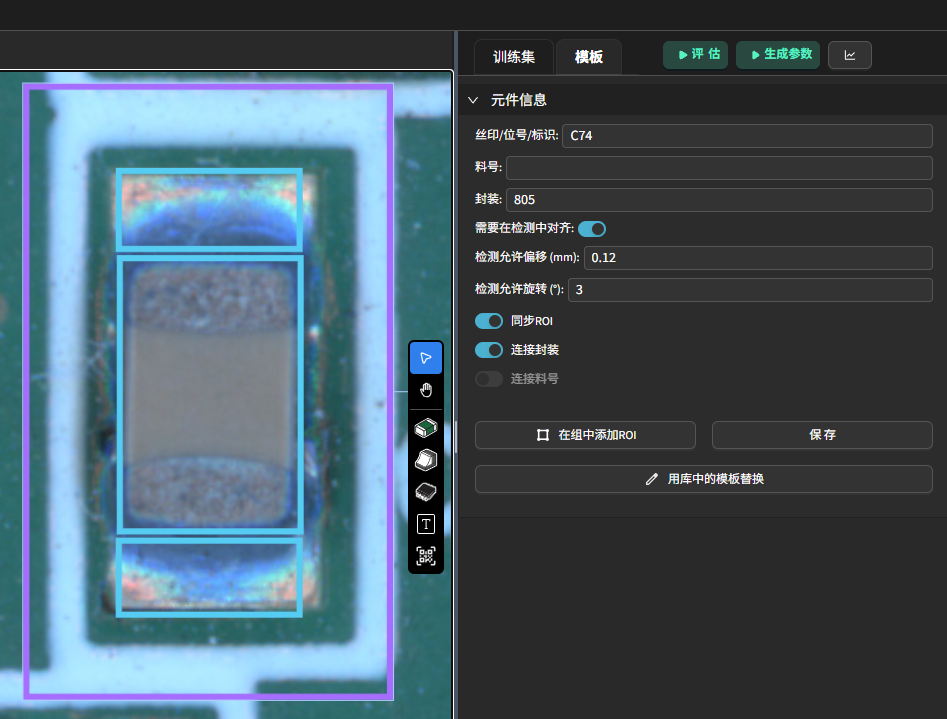
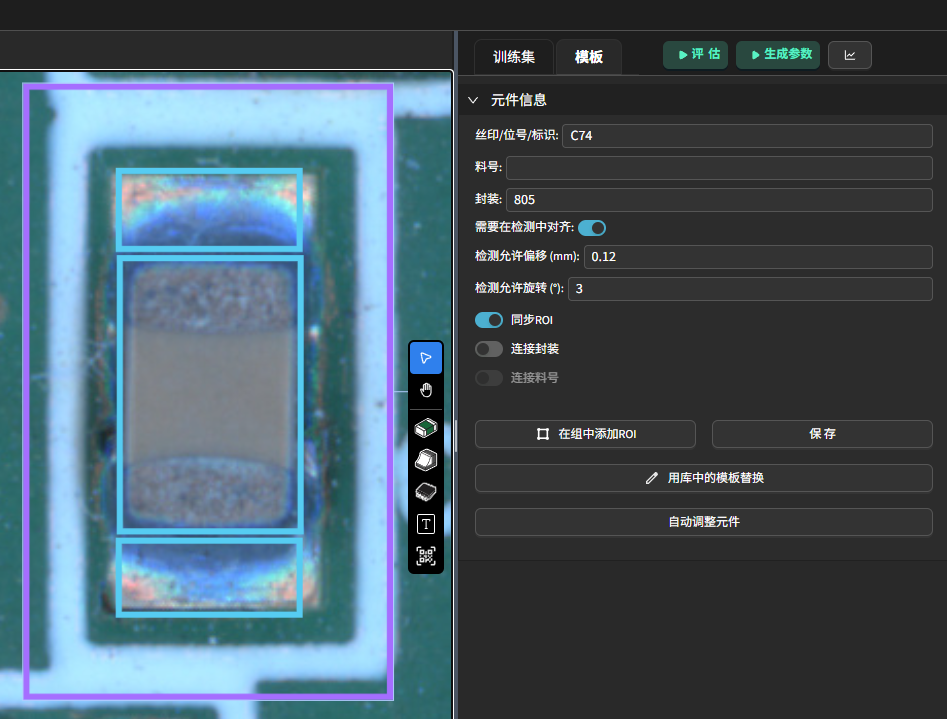
update and fix errors

diff --git a/docs/source/complete_user_guide/features/manual_programming.rst b/docs/source/complete_user_guide/features/manual_programming.rst
@@ -154,6 +154,9 @@
 
 关于快捷键，参考 :ref:`编程页面快捷键` 
 
+
+
+
 2D 模式下常见封装编程示例
 ---------------------------
 
@@ -347,23 +350,127 @@ SOP/TSSOP 封装的存储芯片或驱动芯片
             :scale: 80%
             :alt: 私有库示意
 
+导出与导入：
+    - **导出**：点击“私有库导出”按钮，将当前私有库中的元件信息导出为一个 ``.csv`` 文件。
+    - **导入**：点击“私有库导入”按钮，选择一个 ``.csv`` 文件，即可将文件中的元件信息导入到私有库中。
+
+
+
 
 训练与评估
-~~~~~~~~~~~~~~~
+---------------------
 
-确认全部元件后点击 ``训练`` ，耗时 ~1 分钟；完成后点击 ``自动生成检测参数`` 来基于所有元件的训练集数据分布生成检测参数。
+确认全部元件后点击 ``训练`` ，耗时 ~1 分钟；
 
 .. image:: images/train.png
 	:scale: 50%
 	:alt: 训练示意
 
-点击下方的“评估全部”按钮，对所有元件进行评估，（绿=模型预测正确 / 红=模型预测与实际不符）。
+自动参数生成
+~~~~~~~~~~~~~~~~~~
+
+完成训练后，可以点击 ``自动生成检测参数`` 来基于所有元件的训练集数据分布生成检测参数。
+
+.. image:: images/auto_param.png
+   :scale: 100%
+   :alt: 训练示意
+
+也可以选中一个元件，然后在右侧的设置栏中，点击 ``生成参数`` 来只为该元件生成检测参数。此外，如果手动修改了参数，也可以通过点击 ``生成参数`` 按钮，快速恢复到系统推荐的默认值。
+
+.. image:: images/auto_param_component.png
+   :scale: 80%
+   :alt: 训练示意
+
+评估
+~~~~~~~~~~~~~~~~~~
+
+点击元件列表下的“评估全部”按钮，对所有元件进行评估，（绿=模型预测正确 / 红=模型预测与实际不符）。
 
 .. image:: images/eval_result.png
 	:scale: 50%
 	:alt: 训练示意
 
+也可以选中一个元件，然后在右侧的设置栏中，点击 ``评估`` 来只对该元件进行评估。
+
+.. image:: images/auto_param_component.png
+   :scale: 80%
+
 
 后续：不健康项可参考 :ref:`检测参数` 章节按需微调；修改或补录后重新训练+评估即可迭代。
+
+
+训练集和模板
+--------------------
+
+.. image:: images/train_set.png
+    :scale: 70%
+    :alt: 训练集示意
+
+在界面右侧，可以查看当前选中的检测项的训练集。可以用鼠标在显示窗口中选择检测框，或者在左侧的元件列表中选择元件，训练集会自动切换到该元件下。
+
+训练集里代表了该元件的所有图片，当初次建模时，数据集里只会有基准的标准数据。可以根据封装或者拼版的方式，归类同类型的元件丰富训练集。
+
+后续在检测阶段，反馈过的图片也会自动添加到训练集中，便于后续调整优化模型, 参考 :ref:`反馈与模型迭代`
+
+每个图片下方都有两个颜色指示条：
+
+   .. image:: images/legend.png
+      :scale: 100%
+      :alt: 颜色条示意
+
+   - 左侧颜色条代表 **Ground Truth**（真实值）。
+   - 右侧颜色条代表 **评估结果**：
+
+      - **绿色** 表示 OK。
+      - **红色** 表示 NG。
+      - 未评估时没有颜色显示。
+
+此外，左侧的元件列表颜色与评估结果对应：
+
+   .. image:: images/component_list_eval.png
+      :scale: 80%
+      :alt: 元件列表评估示意
+
+- 当训练集里所有数据的评估结果与 Ground Truth 完全匹配时，元件列表会显示 **绿色**。
+- 如果存在与 Ground Truth 不匹配的评估结果，元件列表会显示 **红色**。
+
+取消反馈
+~~~~~~~~~~~~~~~~~~
+
+在什么情况下需要取消反馈？当某个数据的质量或可信度出现问题时，就应该选择取消反馈。例如：
+
+- 图片因对齐错误或放置错误导致异常错位。
+- 图片因成像问题（如模糊或质量差）而无法提供可靠信息。
+- 数据分布异常，偏离正常的缺陷分布。
+
+此时，取消反馈可以避免这些低质量数据干扰模型的整体评估结果。
+
+.. image:: images/feedback.png
+    :scale: 70%
+    :alt: 反馈示意
+
+在数据集中选择图片后，可以在下方选择“反馈”或“取消反馈”。
+
+- **反馈**：将当前图片的评估结果标记为参考值，用于后续训练。
+- **取消反馈**：移除当前图片的反馈标记。
+
+查看评估分数
+~~~~~~~~~~~~~~~~~~
+
+.. image:: images/eval_score.png
+    :scale: 70%
+    :alt: 评估分数示意
+
+评估完成后，训练集下半部分会显示评估结果，如图所示：
+
+界面中会显示一个 0-1 的分数条，并通过阈值线将绿色和红色区域区分开来：
+
+- 如果模型的分数低于阈值，落在绿色区域内，则评估结果为 **OK**。
+- 如果模型的分数高于阈值，落在红色区域内，则评估结果为 **NG**。
+
+- **当前分数**：模型对该图片的预测分数。分数越接近 0，表示越接近正常样本；分数越接近 1，表示越接近异常样本。
+- **阈值**：用于判定 OK/NG 的分数界限。
+
+用户可以根据评估分数调整参数，详情请参考 :ref:`检测参数`，以优化检测效果。
 
 

diff --git a/docs/source/complete_user_guide/inspection/index.rst b/docs/source/complete_user_guide/inspection/index.rst
@@ -62,16 +62,16 @@
    :scale: 50%
    :alt: 检测页面
 
-- `1–0`（数字键）：在缺陷详情视图中快速反馈对应的预设类别；按住 `Ctrl` + 数字键 可访问扩展类别（例如 `Ctrl`+`1` 表示类别 11）。
-- `上 / 下`（方向键）：切换上一条 / 下一条缺陷记录。
-- `左 / 右`（方向键）：在同一元件的不同缺陷类型之间切换（例如主体与引脚的缺陷视图）。
-- `Enter`：返回上一个检测记录；若当前为最新记录，则返回检测概览页面。
-- `空格`：进板并开始检测。
+- `1–0` （数字键）：在缺陷详情视图中快速反馈对应的预设类别；按住 `Ctrl` + 数字键 可访问扩展类别（例如 `Ctrl`+`1` 表示类别 11）。
+- `上 / 下` （方向键）：切换上一条 / 下一条缺陷记录。
+- `左 / 右` （方向键）：在同一元件的不同缺陷类型之间切换（例如主体与引脚的缺陷视图）。
+- `Enter` ：返回上一个检测记录；若当前为最新记录，则返回检测概览页面。
+- `空格` ：进板并开始检测。
 
 编程页面快捷键
 ~~~~~~~~~~~~~~~~~~~~~~~~~~~~~~~~~~
 
-.. image:: images/program_page.png
+.. image:: images/inspect_page.png
    :scale: 50%
    :alt: 编程页面
 
@@ -151,12 +151,30 @@
 反馈与模型迭代
 ---------------------------------------
 
-提交的反馈会加入到产品的数据集中。推荐的迭代流程：
+正确的反馈是确保模型迭代效果的关键。以下是推荐的反馈与迭代流程：
 
-1. 进行一批次的检测， 在工作列表里查看 并提供反馈，反馈后的数据可以加到数据集中。
+1. **进行检测并提供反馈**
 
-2. 回到产品编程页面，执行训练来更新模型（训练通常耗时约 1 分钟，视硬件而定）。
+   - 在检测页面中，逐条检查检测结果。
+   - 对于真实错误，准确反馈对应的错误类型。
+   - 对于非真实错误（如因对齐错误或成像模糊导致的误报），不要反馈，直接跳过即可。
+   - 确保反馈的准确性，始终针对真实的检测结果提供准确的反馈。
 
-3. 执行“评估全部”以检查各元件状态并针对仍为不合格的项微调参数。参考 :ref:`检测参数` 章节以了解具体的调参方法。
+2. **检查训练集**
+
+   - 在工作列表中查看已反馈的数据，确保反馈的样本具有代表性且质量可靠。
+   - 删除或调整明显错误的反馈记录，避免因错误反馈导致模型性能下降。
+
+3. **重新训练模型**
+
+   - 回到产品编程页面，执行训练来更新模型。
+
+4. **自动更新参数并评估**
+
+   - 执行“评估全部”以检查各元件的状态。
+   - 系统会根据训练结果自动更新检测参数。
+   - 针对仍为不合格的项，参考 :ref:`检测参数` 章节，手动微调参数以优化检测效果。
+
+通过以上流程，可以有效避免因错误反馈导致的模型性能下降，同时确保模型能够持续优化，适应生产需求。
 
 

diff --git a/docs/source/complete_user_guide/config/component_settings.rst b/docs/source/complete_user_guide/config/component_settings.rst
@@ -10,12 +10,13 @@
 - **丝印/位号/标识** (Reference/Identifier)：必填，建议与 PCB 丝印一致，便于检测时快速定位。
 - **料号** (PN)：可选，填写该元件的物料编码，便于后续按料号分组与统计。
 - **封装** (Package)：必填，填写该元件的封装名称，便于后续按封装分组与统计。
-- **需要在检测中对齐** : 是否启用该元件的对齐功能, 默认开启。启用后，系统会在检测时自动调整该元件的位置与旋转角度，确保其与模板位置一致。
-- **检测允许偏移** ： 当整个pcb板的偏移超过设定值时，将不会对齐该元件，避免误对齐导致检测失败。可根据实际情况调整该阈值。
-- **检测允许旋转** ： 当整个pcb板的旋转超过设定值时，将不会对齐该元件，避免误对齐导致检测失败。可根据实际情况调整该阈值。
+- **需要在检测中对齐** : 是否启用该元件的对齐功能, 默认开启。启用后，系统会在检测时自动微调该元件的检测框的位置，确保其与模板位置一致。
+- **检测允许偏移** ： 当该元件的偏移超过设定值时，将不会对齐该元件，可根据实际情况调整该阈值。需要注意的是，阈值设置过高可能会忽略元件的实际偏移，导致检测不到偏移问题。
+- **检测允许旋转** ： 当该元件的旋转超过设定值时，将不会对齐该元件，可根据实际情况调整该阈值。需要注意的是，阈值设置过高可能会忽略元件的实际旋转，导致检测不到旋转问题。
 - **同步 ROI** ：控制该元件在子板中的 ROI（检测区域）是否与主板保持一致。关闭后，可在每个子板单独调整该元件的 ROI，适用于拼版中局部差异场景。
 - **链接封装** ：关联该元件至对应封装分组，实现训练样本聚合与参数统一管理。关闭后，该元件可独立设置参数，不参与封装组同步。
 - **链接料号** ：关联该元件至对应料号分组，便于同料号元件批量训练与参数同步。关闭后，该元件不参与料号组的参数继承。
 - **在组中添加ROI** : 点击该按钮后，支持在已经分组为元件的基础上，为该元件添加新的 ROI（检测区域）。
 - **保存** ：保存当前元件的属性与参数设置。
 - **用库中的模板替换** ：从私有元件库中选择一个已保存的标准化元件，替换当前选中的元件。便于复用已有模板。
+- **自动调整元件** ：在拼版场景中，子板上的元件可能因位置偏移而与主板不完全一致。启用此功能后，系统会根据主板上对应元件的位置，自动调整当前子板元件的检测框，确保检测区域的准确性。

diff --git a/docs/source/complete_user_guide/system_management/index.rst b/docs/source/complete_user_guide/system_management/index.rst
@@ -231,16 +231,21 @@
   :alt: FTP 配置示意
 
 - 左上角 File → FTP mount points 可配置 FTP 服务器，实现远程备份到 NAS 或其他网络硬盘。输入用户名密码，服务器地址与路径，点击添加即可。
-- 右上角 Destination Volume 用于选择目标盘（如移动硬盘、第二磁盘等）。
+- 右上角 Destination Volume 用于选择目标盘（如移动硬盘、USB、第二磁盘等）。
 - 上方搜索栏可按产品名或序列号快速检索检测记录。
-- 搜索栏旁边的过滤器按钮可按日期、时间等条件过滤记录，便于批量操作。
+- 搜索栏旁边的过滤器按钮可按日期、时间等条件过滤记录。
 
 操作步骤：
 
 1. 选择目标盘（Destination Volume），如需远程备份可先配置 FTP。
-2. 可通过搜索栏输入产品名或序列号，或点击 过滤器 按钮按日期/时间筛选需要迁移的检测记录。
-3. 在列表中框选或按住 Shift 选中多个检测记录。
-4. 点击下方 Archive 按钮，即可将选中的记录迁移至目标盘。
+2. 使用搜索栏输入产品名或序列号，或点击过滤器按钮按日期/时间、检测结果等条件筛选需要迁移的检测记录。
+3. 确认筛选结果无误，确保列表中显示的记录均为需要归档的内容。
+4. 点击下方 Archive 按钮，即可将列表中显示的所有记录迁移至目标盘。
+
+   .. note::
+      - 归档后，在工作列表中查看检测记录时，图片等数据会从移动盘读取。如果移动盘断连，将无法查看这些图片；重新连接后即可恢复访问。
+      - 根据移动盘的性能，查看图片的速度可能会有所变化，读写速度较低的移动盘可能导致加载变慢。
+
 5. 如需恢复数据，可点击 Unarchive 按钮从目标盘导入。
 6. 若需删除无用记录，可点击 Delete 按钮。
 

diff --git a/docs/source/complete_user_guide/config/detection_config_2d.rst b/docs/source/complete_user_guide/config/detection_config_2d.rst
@@ -111,10 +111,10 @@
       :alt: 多颜色范围示例（蓝/红）
 
 - **二值化与有效比例（Valid Ratio）**：  
-  将 ROI 内属于颜色范围的像素计为“有效点”，有效比例定义为  
-  :math:`\text{valid_ratio} = 100 \times \dfrac{\text{valid_point_count}}{\text{roi_area}}`。  
+  将 ROI 内属于颜色范围的像素计为“有效点”，有效比例定义为： **有效比例 = 100 × 有效点数 / ROI 面积**  
+  
   在评价时，会检查每个颜色范围对应的有效比例是否落入给定范围。  
-  一个 ROI 可设置多组颜色范围，而这些范围可以在 **颜色范围（HSV）** 中配置。  
+  一个 ROI 可设置多组颜色范围，而这些范围可以在 **颜色范围（HSV）** 中配置。
   
    .. image:: images/solder2d_binarize.png
       :scale: 80%
@@ -188,7 +188,6 @@
          :scale: 80%
          :alt: V2焊料色盘
    
-   TODO: 等待更新
    - **焊料平均阈值 (Solder Mean Threshold)**  
       当引脚的 valid_ratio 未能落入预设的 **Solder Valid Ratio Range** 时，会触发二次判定。  
       此时，系统会计算该引脚的 valid_ratio 与所有引脚平均值 (mean_valid_ratio) 的差异：  
@@ -220,8 +219,6 @@
       .. image:: images/lead2d_v2_pad_color.png
          :scale: 80%
          :alt: V2焊盘/翘脚参数
-
-   TODO: 等待更新
 
    - **引脚翘起焊料平均阈值**  
       当前引脚 **焊料区 (Solder)** 的有效比例 − 所有引脚焊料区有效比例的平均值 > 设定阈值  
